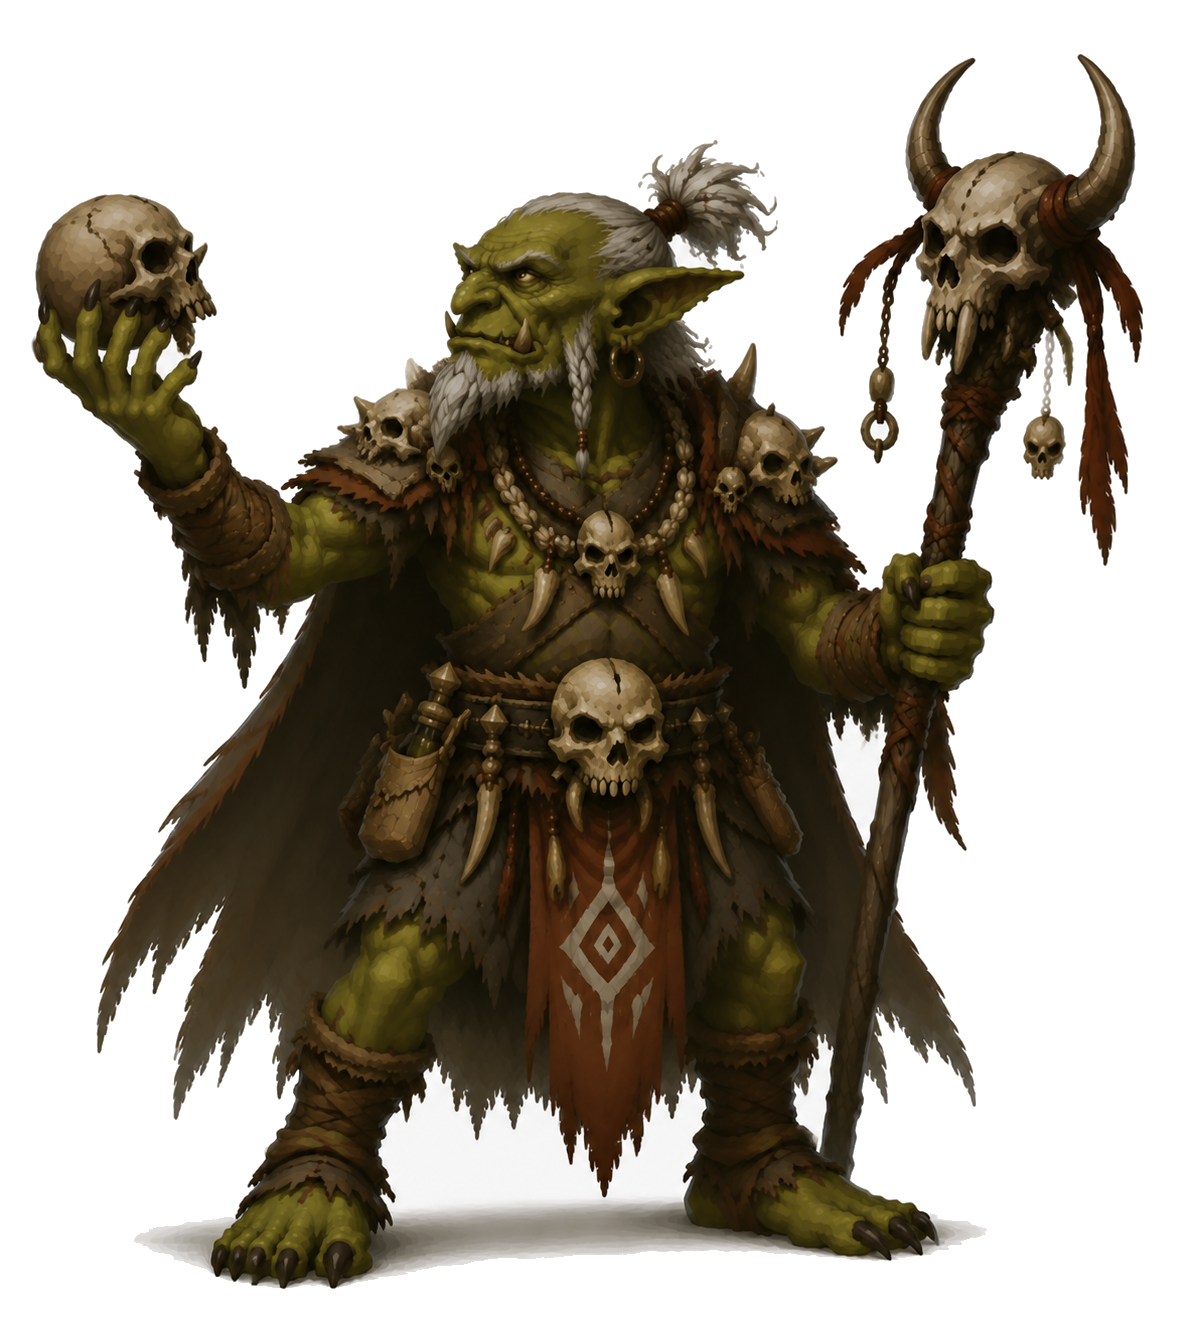
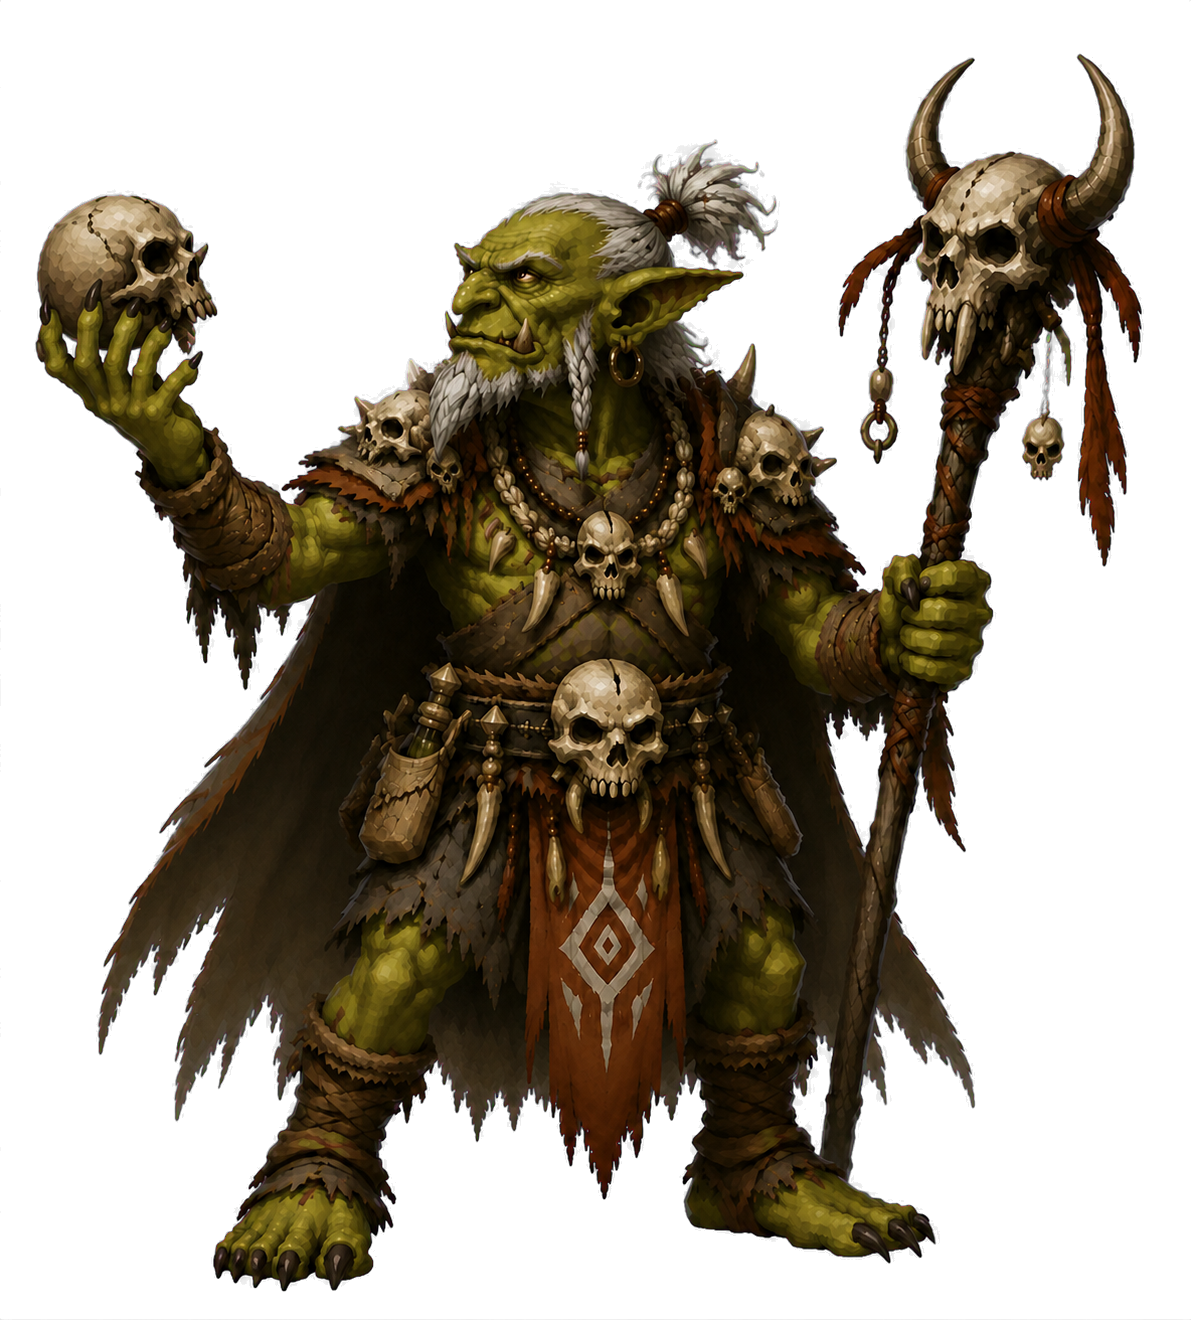
fix: clean goblin camp monster backgrounds

diff --git a/styles/dungeon.css b/styles/dungeon.css
@@ -37,11 +37,11 @@
 .enemy-art.plains-depths-highland-wolf-art{display:block;width:154px!important;height:146px!important;background:url('../assets/plains-depths-highland-wolf.png?v=20260729-transparent-v2') center/contain no-repeat;filter:drop-shadow(0 10px 8px rgba(0,0,0,.58));animation:goblinIdle 1.85s ease-in-out infinite}
 .enemy-art.plains-depths-rockback-boar-art{display:block;width:158px!important;height:150px!important;background:url('../assets/plains-depths-rockback-boar.png?v=20260729-transparent-v2') center/contain no-repeat;filter:drop-shadow(0 11px 9px rgba(0,0,0,.64));animation:goblinIdle 2s ease-in-out infinite}
 .enemy-art.goblin-camp-warrior-art{display:block;width:148px!important;height:158px!important;background:url('../assets/goblin-camp-warrior-transparent.png?v=20260802-transparent-v1') center/contain no-repeat;filter:drop-shadow(0 10px 9px rgba(0,0,0,.58));animation:goblinIdle 2.15s ease-in-out infinite}
-.enemy-art.goblin-camp-shaman-art{display:block;width:160px!important;height:170px!important;background:url('../assets/goblin-camp-shaman-transparent.png?v=20260802-transparent-v1') center/contain no-repeat;filter:drop-shadow(0 0 13px rgba(151,255,117,.32)) drop-shadow(0 10px 9px rgba(0,0,0,.6));animation:goblinIdle 2.25s ease-in-out infinite}
-.enemy-art.goblin-camp-guard-art{display:block;width:166px!important;height:176px!important;background:url('../assets/goblin-camp-guard-transparent.png?v=20260802-transparent-v1') center/contain no-repeat;filter:drop-shadow(0 0 12px rgba(174,151,255,.3)) drop-shadow(0 11px 10px rgba(0,0,0,.64));animation:goblinIdle 2.35s ease-in-out infinite}
-.enemy-art.goblin-camp-high-chief-art{display:block;width:188px!important;height:198px!important;background:url('../assets/goblin-camp-high-chief-transparent.png?v=20260802-transparent-v1') center/contain no-repeat;filter:drop-shadow(0 0 8px #ffc553) drop-shadow(0 0 20px rgba(244,65,42,.82)) drop-shadow(0 12px 11px rgba(0,0,0,.7));animation:goblinIdle 2.45s ease-in-out infinite}
-.enemy-art.goblin-camp-slinger-art{display:block;width:148px!important;height:158px!important;background:url('../assets/goblin-camp-slinger-transparent.png?v=20260802-transparent-v1') center/contain no-repeat;filter:drop-shadow(0 10px 9px rgba(0,0,0,.58));animation:goblinIdle 1.95s ease-in-out infinite}
-.enemy-art.goblin-camp-captain-art{display:block;width:182px!important;height:192px!important;background:url('../assets/goblin-camp-captain-transparent.png?v=20260802-transparent-v1') center/contain no-repeat;filter:drop-shadow(0 0 8px #ffc553) drop-shadow(0 0 18px rgba(226,75,42,.76)) drop-shadow(0 12px 11px rgba(0,0,0,.68));animation:goblinIdle 2.3s ease-in-out infinite}
+.enemy-art.goblin-camp-shaman-art{display:block;width:160px!important;height:170px!important;background:url('../assets/goblin-camp-shaman-transparent.png?v=20260803-transparent-v2') center/contain no-repeat;filter:drop-shadow(0 0 13px rgba(151,255,117,.32)) drop-shadow(0 10px 9px rgba(0,0,0,.6));animation:goblinIdle 2.25s ease-in-out infinite}
+.enemy-art.goblin-camp-guard-art{display:block;width:166px!important;height:176px!important;background:url('../assets/goblin-camp-guard-transparent.png?v=20260803-transparent-v2') center/contain no-repeat;filter:drop-shadow(0 0 12px rgba(174,151,255,.3)) drop-shadow(0 11px 10px rgba(0,0,0,.64));animation:goblinIdle 2.35s ease-in-out infinite}
+.enemy-art.goblin-camp-high-chief-art{display:block;width:188px!important;height:198px!important;background:url('../assets/goblin-camp-high-chief-transparent.png?v=20260803-transparent-v2') center/contain no-repeat;filter:drop-shadow(0 0 8px #ffc553) drop-shadow(0 0 20px rgba(244,65,42,.82)) drop-shadow(0 12px 11px rgba(0,0,0,.7));animation:goblinIdle 2.45s ease-in-out infinite}
+.enemy-art.goblin-camp-slinger-art{display:block;width:148px!important;height:158px!important;background:url('../assets/goblin-camp-slinger-transparent.png?v=20260803-transparent-v2') center/contain no-repeat;filter:drop-shadow(0 10px 9px rgba(0,0,0,.58));animation:goblinIdle 1.95s ease-in-out infinite}
+.enemy-art.goblin-camp-captain-art{display:block;width:182px!important;height:192px!important;background:url('../assets/goblin-camp-captain-transparent.png?v=20260803-transparent-v2') center/contain no-repeat;filter:drop-shadow(0 0 8px #ffc553) drop-shadow(0 0 18px rgba(226,75,42,.76)) drop-shadow(0 12px 11px rgba(0,0,0,.68));animation:goblinIdle 2.3s ease-in-out infinite}
 .enemy-art.den-forest-wolf-art{display:block;width:152px!important;height:163px!important;background:url('../assets/wolf-den-forest-wolf.png?v=20260725-user-image-v1') center/contain no-repeat;filter:drop-shadow(0 9px 8px rgba(0,0,0,.55));animation:wolfIdle 2.2s ease-in-out infinite}
 .enemy-art.den-raging-wolf-art{display:block;width:164px!important;height:174px!important;background:url('../assets/wolf-den-raging-wolf.png?v=20260725-user-image-v1') center/contain no-repeat;filter:brightness(1.08) saturate(1.14) drop-shadow(0 0 14px rgba(255,85,45,.38)) drop-shadow(0 10px 9px rgba(0,0,0,.6));animation:wolfIdle 1.85s ease-in-out infinite}
 .enemy-art.den-greatfang-wolf-art{display:block;width:184px!important;height:190px!important;background:url('../assets/wolf-den-greatfang-wolf.png?v=20260725-user-image-v1') center/contain no-repeat;filter:brightness(1.08) saturate(1.18) drop-shadow(0 0 18px rgba(55,139,255,.7)) drop-shadow(0 12px 10px rgba(0,0,0,.68));animation:wolfIdle 2s ease-in-out infinite}
